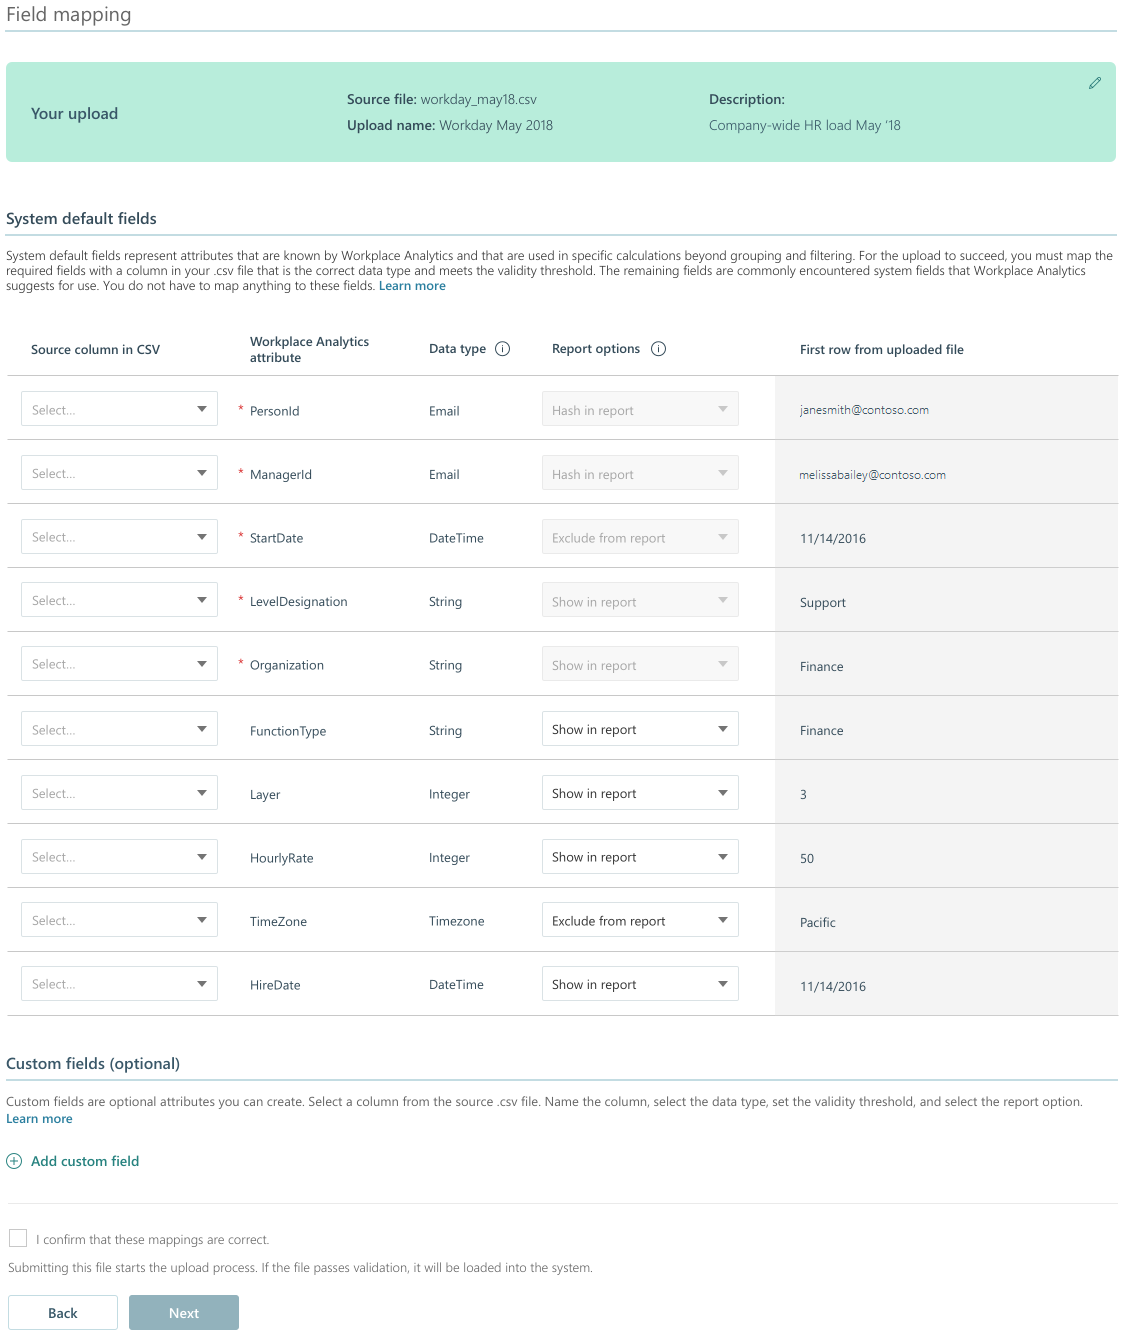
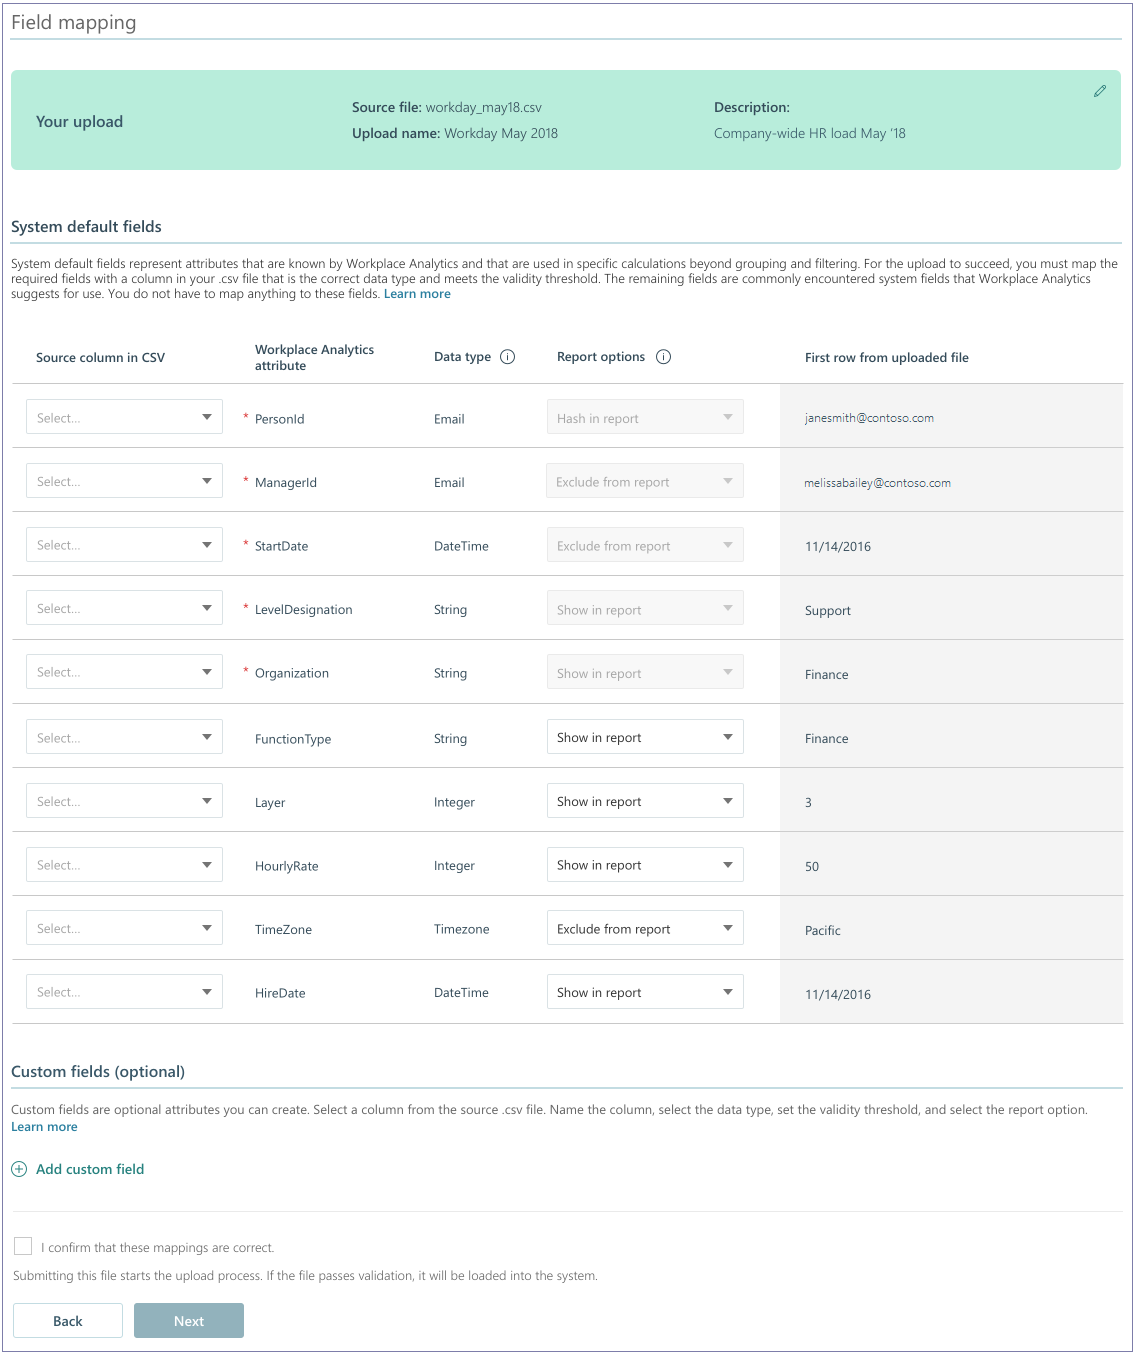
changes for Pramod

diff --git a/WorkplaceAnalytics/Setup/upload-organizational-data-1st.md b/WorkplaceAnalytics/Setup/upload-organizational-data-1st.md
@@ -95,7 +95,8 @@ Replaced with actual text and then removed that term: -->
 ### Columns in the fields tables
 
 * **Source column** corresponds to each of the fields in the uploaded file.
-* **Workplace Analytics name** is the name of your organization's Workplace Analytics.
+
+* **Workplace Analytics name** is the name of this attribute in your organization's Workplace Analytics data. <!-- VERIFYING THIS NAME WITH PRAMOD. IT MIGHT BE WORKPLACE ANALYTICS ATTRIBUTE -->
 
 * **Data type** is the data type of the fields.
 
@@ -110,18 +111,18 @@ The drop-down menu under **Include in report** offers the following options for 
 
    * **Show in report:** Let the actual data value display in the report just as it was imported in the organizational data file.
 
-   * **Exclude from report:** Prevent the data value from appearing in the report.
+   * **Exclude from report:** Prevent the data value from appearing in the report. For data-privacy reasons, some attributes (such as ManagerID) are automatically assigned the value "Exclude from report" and this value cannot be changed. 
 
-   * **Hash in report** de-identifies sensitive data. This option includes the data in the report that it generates about the import operation, but instead of displaying the actual value that was taken from the source file, it shows a hashed version of the value – a format that cannot be read.
+   * **Hash in report** de-identifies sensitive data. This option includes the data in the report that it generates about the import operation, but instead of displaying the actual value that was taken from the source file, it shows a hashed version of the value – a format that cannot be read. 
 
 **To map fields**
 
 After you complete the steps in [File upload](#file-upload), the **Upload** page with the System fields table will appear.
 
 1. Map the required fields.
-  
-    <img src="../images/wpa/setup/2-orgd-map-fields.png" alt="System fields table">
 
+    ![System fields table](../images/wpa/setup/2-orgd-map-fields.png) 
+  
    <ol type="a"> 
    <li>Determine which of the columns in your .csv file correspond to the second column in the table (Workplace Analytics name).</li>
    <li>Under <b>Source column</b> (the first column in the table), click the down arrow. This displays a list of the column names that were found in the .csv file. From the list, select the correct column name for this data.</li> 
@@ -131,7 +132,7 @@ After you complete the steps in [File upload](#file-upload), the **Upload** page
    > [!Note]
    > For more information, see [Columns in the fields tables](#columns-in-the-fields-tables).
 
-2. Map the optional and custom fields, as applicable. You only need to map the columns in your source (.csv) file that your organization considers important for analysis. For example, if StartDate is important and your data contains this field, map it. 
+2. Map the optional and custom fields, as applicable. You only need to map the columns in the source data (.csv) file that your organization considers important for analysis. For example, if StartDate is important and your data contains this field, map it. 
 
    <ol type="a">
    <li>Under <b>Source column</b> (the first column in the table), select the down arrow to display the list of column names that were found in the .csv file. From the list, select the correct column name for the data. In this example, you'd select <b>StartDate</b>.</li>

diff --git a/WorkplaceAnalytics/Includes/org-data-fields-tables.md b/WorkplaceAnalytics/Includes/org-data-fields-tables.md
@@ -46,6 +46,6 @@ The drop-down menu under **Include in report** offers the following options for 
 
    * **Show in report:** Let the actual data value display in the report just as it was imported in the organizational data file.
 
-   * **Exclude from report:** Prevent the data value from appearing in the report.
+   * **Exclude from report:** Prevent the data value from appearing in the report. For data-privacy reasons, some attributes (such as ManagerID) are automatically assigned the value "Exclude from report" and this value cannot be changed. 
 
    * **Hash in report** de-identifies sensitive data. This option includes the data in the report that it generates about the import operation, but instead of displaying the actual value that was taken from the source file, it shows a hashed version of the value – a format that cannot be read.
